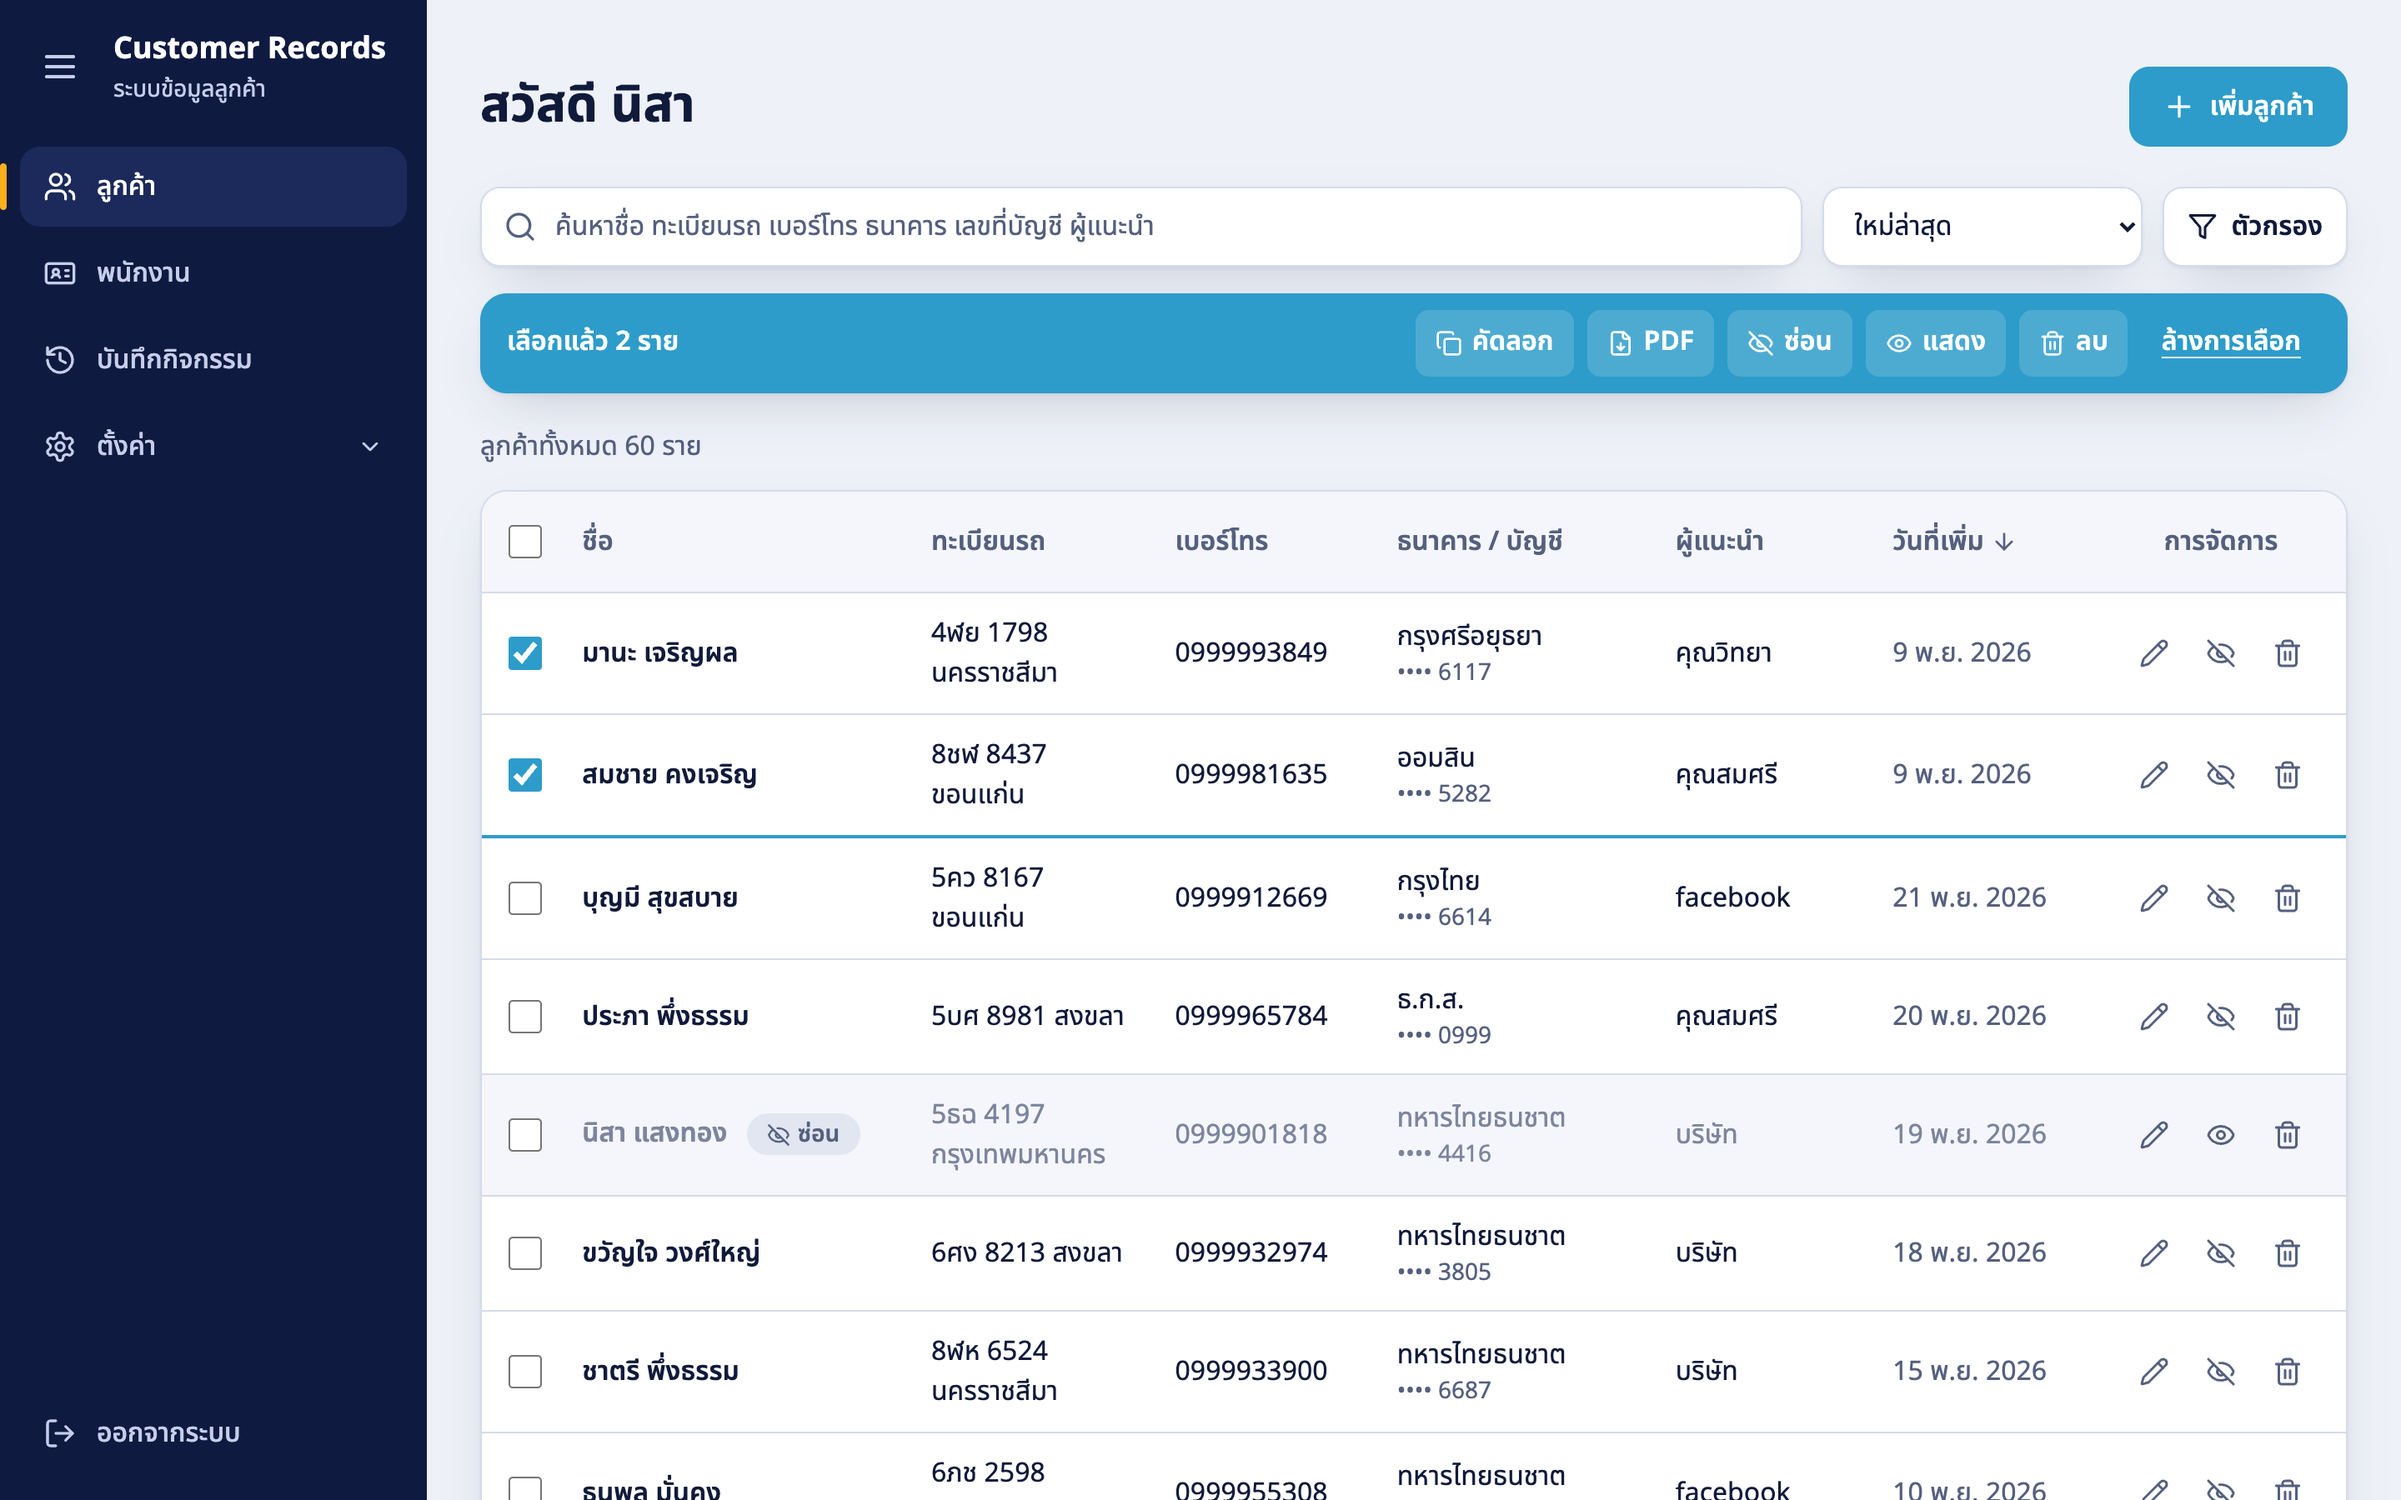
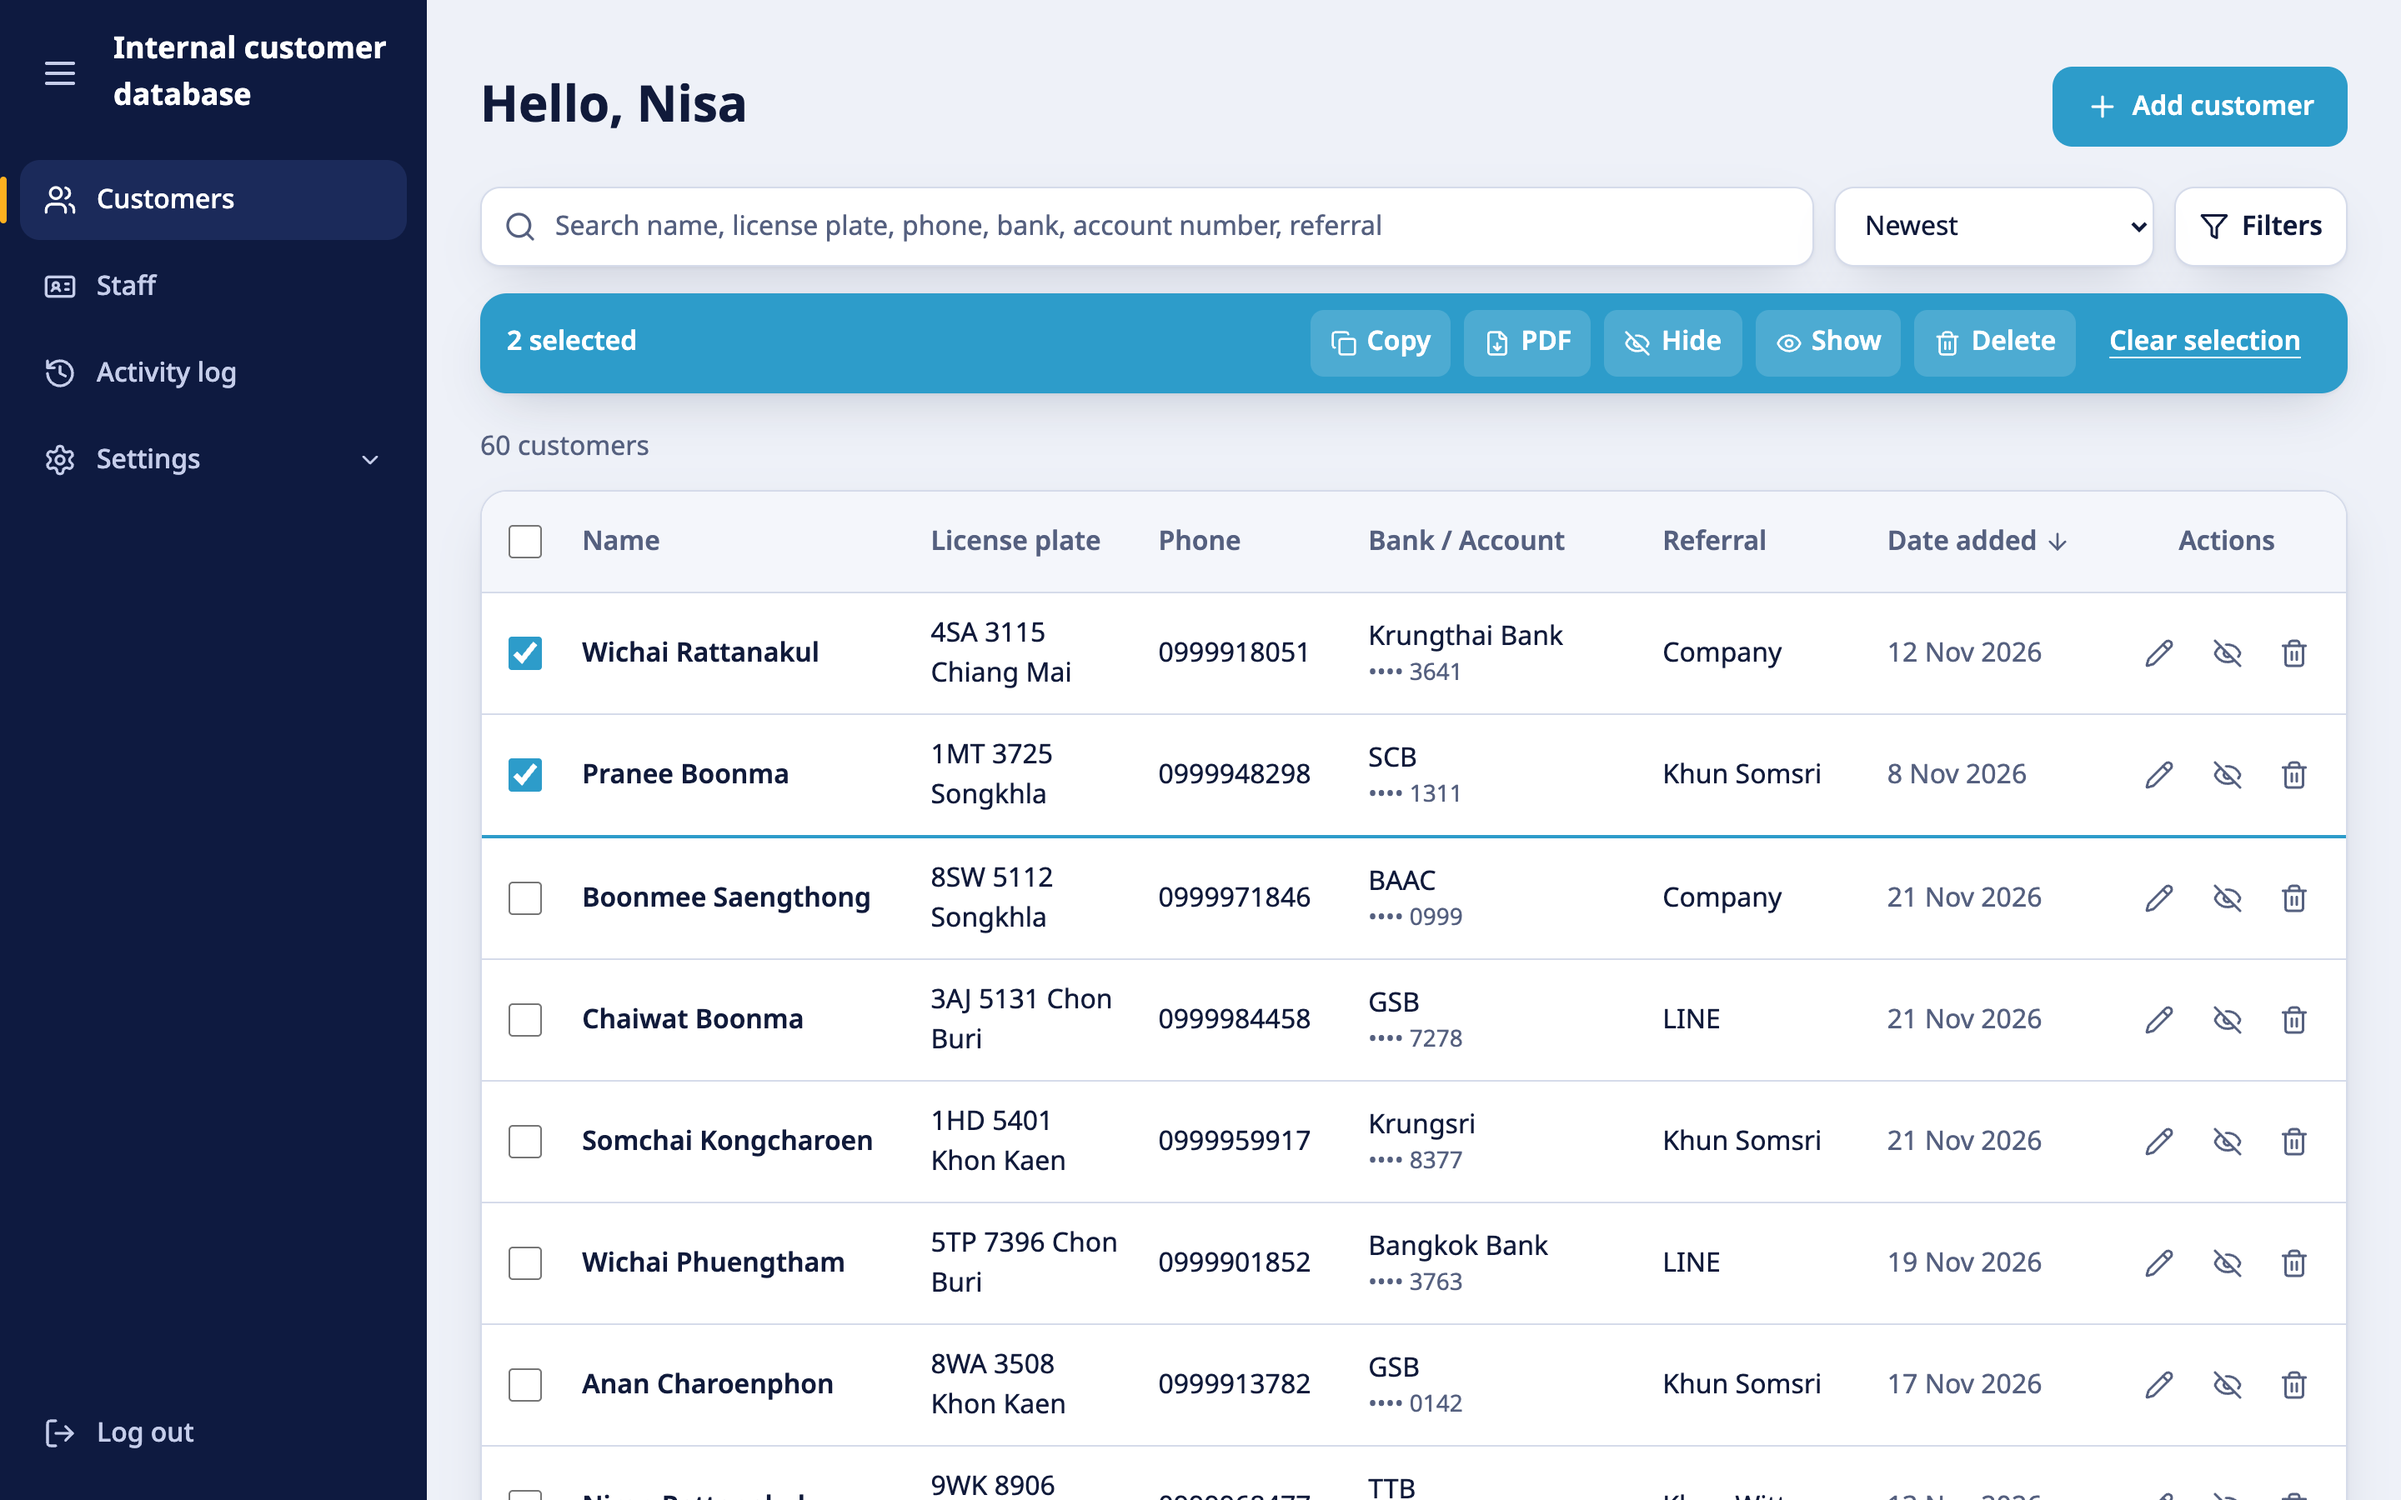
README images in English (fake data, generic name); note that the production app is Thai

diff --git a/README.md b/README.md
@@ -46,7 +46,7 @@ Together these make the data more accurate and more private: details are typed o
   </tr>
   <tr>
     <td align="center"><sub>Login</sub></td>
-    <td align="center"><sub>Customer list (admin): ticked customers pinned on top, masked account numbers, a hidden customer greyed out</sub></td>
+    <td align="center"><sub>Customer list (admin): ticked customers pinned on top, masked account numbers</sub></td>
   </tr>
 </table>
 
@@ -55,7 +55,7 @@ Together these make the data more accurate and more private: details are typed o
   <br><sub>The same list on a phone: cards with icon actions and bottom tabs</sub>
 </p>
 
-<sub>All data shown is fake, generated by the <code>seed_demo</code> command.</sub>
+<sub>The interface is shown in English for these images; the production app is in Thai. All data shown is fake.</sub>
 
 ## Roles
 
